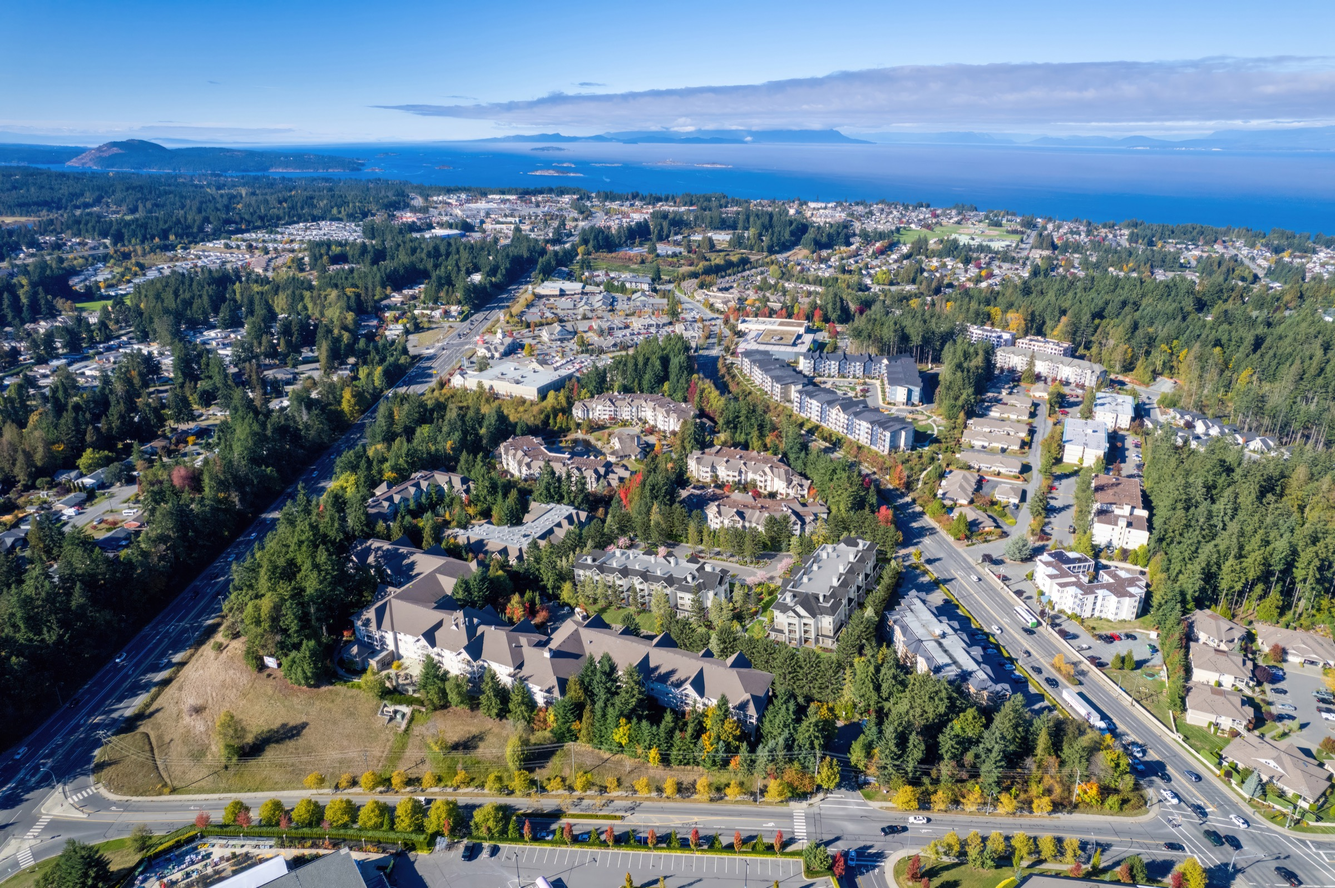
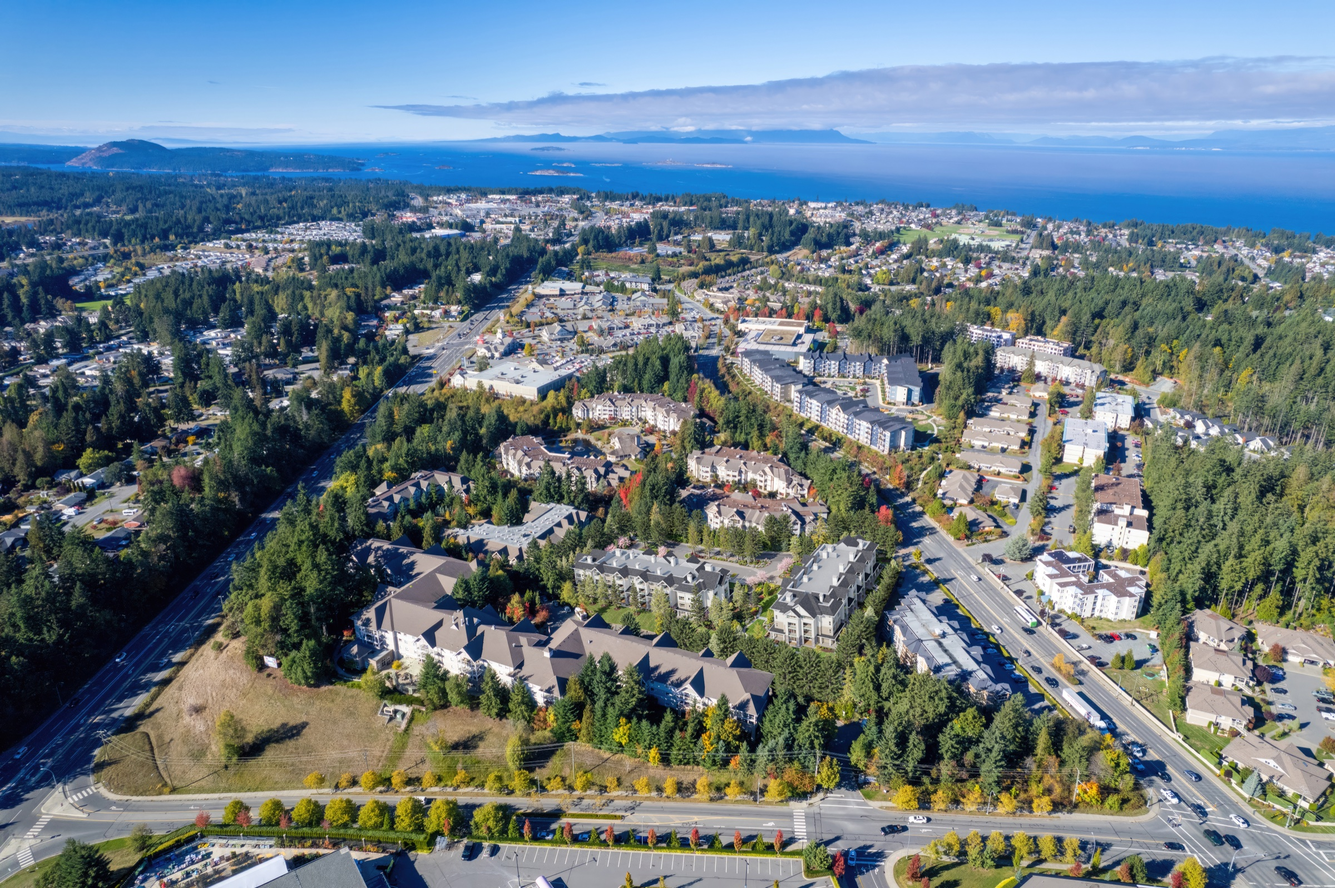
Update v1 content: luxury headline, covered patios, Summer 2026
- Hero: "Modern" -> "Luxury"; remove 55+ trust cue
- Why Rent: trim benefits (remove community/peace-of-mind/professionally-managed items)
- Homes: accessible bathrooms -> covered patios (features + both floor plans)
- Layouts: 2BR hero uses pano view; replace "View Layout Details" button with
  static "Layout Details Coming Soon" label (amenity partnership unconfirmed)
- Amenities: section removed from page + nav (Origin partnership pending)
- Gallery: move pano-view to Interior; drop Amenity filter + video placeholders;
  remove amenity image
- Form: drop Gulf Development contact sentence from consent copy
- Footer + API fallback: info@askgreta.com -> info@chelsealiving.net
- Images: regenerate pano-view.jpg (2400w, 556KB) and aerial-view.jpg from
  source renderings
- Global sweep: Spring 2026 -> Summer 2026 across v1/v2/v3

diff --git a/src/app/page.tsx b/src/app/page.tsx
@@ -1,101 +1,31 @@
-import Image from 'next/image';
-import Link from 'next/link';
+import Header from '@/components/v1/Header';
+import Hero from '@/components/v1/Hero';
+import Overview from '@/components/v1/Overview';
+import Homes from '@/components/v1/Homes';
+import Location from '@/components/v1/Location';
+import Gallery from '@/components/v1/Gallery';
+import RegistrationForm from '@/components/v1/RegistrationForm';
+import BookShowing from '@/components/v1/BookShowing';
+import Footer from '@/components/v1/Footer';
 
-const VARIANTS = [
-  {
-    id: 'v1',
-    title: 'Classic Trust',
-    description:
-      'Traditional leasing aesthetic. Navy, cream, and gold palette with strong hierarchy, big readable type, and minimal animation. Designed for clarity and confidence.',
-    color: 'from-[#1B3A5C] to-[#112840]',
-    accent: '#C5A55A',
-    image: '/images/building-a.jpg',
-  },
-  {
-    id: 'v2',
-    title: 'Modern Premium',
-    description:
-      'Upscale condo-quality feel. Deep charcoal and copper palette with elegant transitions, masonry gallery, and refined iconography. Feels like high-end real estate marketing.',
-    color: 'from-[#1A1A1A] to-[#0A0A0A]',
-    accent: '#B8860B',
-    image: '/images/hero-view.jpg',
-  },
-  {
-    id: 'v3',
-    title: 'Warm Community',
-    description:
-      'Lifestyle and community focused. Sage green and terracotta palette with rounded shapes, friendly microcopy, and a welcoming tone. Emphasizes neighbourhood and belonging.',
-    color: 'from-[#2D4A2E] to-[#1a2e1b]',
-    accent: '#C17A50',
-    image: '/images/amenity.jpg',
-  },
-];
+export const metadata = {
+  title: 'Chelsea at Longwood — Luxury Rental Living for Your Next Chapter',
+};
 
-export default function PreviewPage() {
+export default function Page() {
   return (
-    <div className="min-h-screen bg-[#0A0A0A]">
-      <header className="pt-16 pb-12 px-4 text-center">
-        <p className="text-white/30 text-sm font-medium tracking-[0.2em] uppercase mb-3">
-          Studio 1299
-        </p>
-        <h1 className="text-white text-4xl sm:text-5xl font-semibold tracking-tight mb-4">
-          Previews
-        </h1>
-        <p className="text-white/40 text-base max-w-md mx-auto leading-relaxed">
-          Three landing page concepts for Chelsea at Longwood. Click any card to view the full design.
-        </p>
-      </header>
-
-      <main className="max-w-6xl mx-auto px-4 sm:px-6 pb-20">
-        <div className="grid md:grid-cols-3 gap-6">
-          {VARIANTS.map((v) => (
-            <Link
-              key={v.id}
-              href={`/${v.id}`}
-              className="group relative rounded-2xl overflow-hidden bg-white/5 border border-white/5 hover:border-white/15 transition-all duration-300 hover:-translate-y-1"
-            >
-              <div className="relative h-52 overflow-hidden">
-                <Image
-                  src={v.image}
-                  alt={`${v.title} preview`}
-                  fill
-                  className="object-cover transition-transform duration-500 group-hover:scale-105"
-                  sizes="(max-width: 768px) 100vw, 33vw"
-                />
-                <div className={`absolute inset-0 bg-gradient-to-t ${v.color} opacity-60`} />
-                <div className="absolute bottom-4 left-4">
-                  <span
-                    className="inline-block px-3 py-1 rounded-full text-xs font-semibold text-white/90 backdrop-blur-sm"
-                    style={{ backgroundColor: `${v.accent}CC` }}
-                  >
-                    Version {v.id.replace('v', '')}
-                  </span>
-                </div>
-              </div>
-              <div className="p-6">
-                <h2 className="text-white text-xl font-semibold mb-2 group-hover:text-white/90 transition-colors">
-                  {v.title}
-                </h2>
-                <p className="text-white/40 text-sm leading-relaxed">
-                  {v.description}
-                </p>
-                <div className="mt-5 flex items-center gap-2 text-white/50 text-sm font-medium group-hover:text-white/70 transition-colors">
-                  View full page
-                  <svg className="w-4 h-4 transition-transform group-hover:translate-x-1" fill="none" stroke="currentColor" strokeWidth={2} viewBox="0 0 24 24">
-                    <path strokeLinecap="round" strokeLinejoin="round" d="M13.5 4.5L21 12m0 0l-7.5 7.5M21 12H3" />
-                  </svg>
-                </div>
-              </div>
-            </Link>
-          ))}
-        </div>
+    <div className="theme-v1 min-h-screen">
+      <Header />
+      <main>
+        <Hero />
+        <Overview />
+        <Homes />
+        <Location />
+        <Gallery />
+        <RegistrationForm />
+        <BookShowing />
       </main>
-
-      <footer className="text-center pb-10">
-        <p className="text-white/20 text-xs">
-          Confidential preview &mdash; Studio 1299
-        </p>
-      </footer>
+      <Footer />
     </div>
   );
 }

diff --git a/src/lib/content.ts b/src/lib/content.ts
@@ -1,10 +1,10 @@
 export const SITE_NAME = 'Chelsea at Longwood';
 
 export const HERO = {
-  headline: 'Modern Rental Living for Your Next Chapter',
+  headline: 'Luxury Rental Living for Your Next Chapter',
   subheadline: 'Bright, comfortable homes in the heart of Longwood.',
   cta: 'Register for Updates',
-  trustCues: ['Professionally managed', '55+ friendly living', 'Opening Spring 2026'],
+  trustCues: ['Professionally managed', 'Opening Summer 2026'],
 };
 
 export const OVERVIEW = {
@@ -14,10 +14,7 @@ export const OVERVIEW = {
     'Leave strata meetings, repairs, and maintenance behind',
     'No strata fees or unexpected special levies',
     'Brand-new, move-in-ready homes — just bring what matters to you',
-    'A built-in community of neighbours who share your stage of life',
     'Lower financial risk and greater flexibility for your future',
-    'Peace of mind for downsizers and retirees who want simplicity and comfort',
-    'Professionally managed by a dedicated team — so you don\'t have to think about it',
   ],
 };
 
@@ -33,7 +30,7 @@ export const HOMES = {
     { label: 'In-suite laundry', icon: 'laundry' },
     { label: 'Open, practical layouts', icon: 'layout' },
     { label: 'Large windows with natural light', icon: 'sun' },
-    { label: 'Accessible bathrooms', icon: 'accessible' },
+    { label: 'Covered patios', icon: 'balcony' },
     { label: 'Large private balconies', icon: 'balcony' },
   ],
   floorPlans: [
@@ -47,7 +44,7 @@ export const HOMES = {
         'Modern kitchen with full appliances',
         'In-suite laundry',
         'Private balcony',
-        'Accessible bathroom',
+        'Covered patio',
       ],
     },
     {
@@ -61,7 +58,7 @@ export const HOMES = {
         'In-suite laundry',
         'Private balcony',
         'Primary bedroom ensuite',
-        'Accessible bathroom',
+        'Covered patio',
       ],
     },
   ],
@@ -128,13 +125,6 @@ export const GALLERY = {
       height: 1350,
     },
     {
-      src: '/images/amenity.jpg',
-      alt: 'Chelsea at Longwood amenity space rendering',
-      category: 'amenity' as const,
-      width: 2400,
-      height: 1600,
-    },
-    {
       src: '/images/living-room.jpg',
       alt: 'Bright, modern living room with large windows and natural light',
       category: 'interior' as const,
@@ -165,9 +155,9 @@ export const GALLERY = {
     {
       src: '/images/pano-view.jpg',
       alt: 'Panoramic view from Chelsea at Longwood balcony',
-      category: 'neighbourhood' as const,
+      category: 'interior' as const,
       width: 2400,
-      height: 1200,
+      height: 960,
     },
     {
       src: '/images/pano-view-2.jpg',
@@ -187,7 +177,7 @@ export const FORM = {
   successTitle: 'Thank you for your interest.',
   successMessage:
     'We\'ve received your information and will be in touch soon with updates about Chelsea at Longwood. We look forward to welcoming you.',
-  consentText: `By clicking on the box, I consent to Chelsea at Longwood marketing and leasing team to contact me via electronic and non-electronic means with messages such as newsletters, announcements, press releases and event invitations regarding their respective products and services. I consent to the collection, use and disclosure of my information submitted for the purposes disclosed on this page, including for electronic and non-electronic communications. I may withdraw my consent to electronic messages at any time by following the unsubscribe links contained in them. Gulf Development Inc's contact details are [Address].`,
+  consentText: `By clicking on the box, I consent to Chelsea at Longwood marketing and leasing team to contact me via electronic and non-electronic means with messages such as newsletters, announcements, press releases and event invitations regarding their respective products and services. I consent to the collection, use and disclosure of my information submitted for the purposes disclosed on this page, including for electronic and non-electronic communications. I may withdraw my consent to electronic messages at any time by following the unsubscribe links contained in them.`,
   suiteOptions: [
     { value: '1BR', label: '1 Bedroom' },
     { value: '2BR', label: '2 Bedroom' },
@@ -201,7 +191,7 @@ export const FORM = {
 };
 
 export const FOOTER = {
-  email: 'info@askgreta.com',
+  email: 'info@chelsealiving.net',
   phone: '250.619.9500',
   propertyManager: 'Gulf Properties & Property Management Team',
   address: '4775 Upland Drive, Nanaimo, BC V9T6L8',

diff --git a/src/components/v1/Homes.tsx b/src/components/v1/Homes.tsx
@@ -1,13 +1,7 @@
-'use client';
-
-import { useState } from 'react';
 import Image from 'next/image';
 import { HOMES } from '@/lib/content';
-import { track } from '@/lib/analytics';
 
 export default function Homes() {
-  const [activePlan, setActivePlan] = useState<string | null>(null);
-
   return (
     <section id="homes" className="py-28 lg:py-40 bg-cream">
       <div className="max-w-7xl mx-auto px-6 sm:px-8 lg:px-12">
@@ -57,7 +51,7 @@ export default function Homes() {
               >
                 <div className="relative h-64 lg:h-72">
                   <Image
-                    src="/images/living-room.jpg"
+                    src={plan.id === '2br' ? '/images/pano-view.jpg' : '/images/living-room.jpg'}
                     alt={`${plan.name} layout preview`}
                     fill
                     className="object-cover transition-transform duration-700 group-hover:scale-105"
@@ -86,23 +80,10 @@ export default function Homes() {
                       </li>
                     ))}
                   </ul>
-                  <button
-                    onClick={() => {
-                      setActivePlan(activePlan === plan.id ? null : plan.id);
-                      track('floorplan_view', { plan: plan.id });
-                    }}
-                    className="w-full bg-navy text-white py-4 font-semibold hover:bg-navy-light transition-colors tracking-wide"
-                  >
-                    {activePlan === plan.id ? 'Close' : 'View Layout Details'}
-                  </button>
-                </div>
-                {activePlan === plan.id && (
-                  <div className="border-t border-cream-dark p-8 bg-cream/50 text-center">
-                    <p className="text-warm-gray text-base italic leading-relaxed">
-                      Detailed floor plans coming soon. Contact us for more information.
-                    </p>
+                  <div className="w-full bg-navy/10 text-navy py-4 font-semibold text-center tracking-wide">
+                    Layout Details Coming Soon
                   </div>
-                )}
+                </div>
               </div>
             ))}
           </div>

diff --git a/src/components/v1/Gallery.tsx b/src/components/v1/Gallery.tsx
@@ -11,7 +11,6 @@ const CATEGORIES = [
   { value: 'building', label: 'Building' },
   { value: 'interior', label: 'Interiors' },
   { value: 'neighbourhood', label: 'Neighbourhood' },
-  { value: 'amenity', label: 'Amenity' },
 ] as const;
 
 export default function Gallery() {
@@ -76,20 +75,6 @@ export default function Gallery() {
           ))}
         </div>
 
-        <div className="mt-14 grid sm:grid-cols-2 gap-6">
-          <div className="bg-cream p-10 text-center">
-            <svg className="w-10 h-10 text-warm-gray mx-auto mb-4" fill="none" stroke="currentColor" strokeWidth={1.5} viewBox="0 0 24 24">
-              <path strokeLinecap="round" strokeLinejoin="round" d="m15.75 10.5 4.72-4.72a.75.75 0 0 1 1.28.53v11.38a.75.75 0 0 1-1.28.53l-4.72-4.72M4.5 18.75h9a2.25 2.25 0 0 0 2.25-2.25v-9a2.25 2.25 0 0 0-2.25-2.25h-9A2.25 2.25 0 0 0 2.25 7.5v9a2.25 2.25 0 0 0 2.25 2.25Z" />
-            </svg>
-            <p className="text-warm-gray text-base">{GALLERY.videoPlaceholder}</p>
-          </div>
-          <div className="bg-cream p-10 text-center">
-            <svg className="w-10 h-10 text-warm-gray mx-auto mb-4" fill="none" stroke="currentColor" strokeWidth={1.5} viewBox="0 0 24 24">
-              <path strokeLinecap="round" strokeLinejoin="round" d="M9.813 15.904 9 18.75l-.813-2.846a4.5 4.5 0 0 0-3.09-3.09L2.25 12l2.846-.813a4.5 4.5 0 0 0 3.09-3.09L9 5.25l.813 2.846a4.5 4.5 0 0 0 3.09 3.09L15.75 12l-2.846.813a4.5 4.5 0 0 0-3.09 3.09ZM18.259 8.715 18 9.75l-.259-1.035a3.375 3.375 0 0 0-2.455-2.456L14.25 6l1.036-.259a3.375 3.375 0 0 0 2.455-2.456L18 2.25l.259 1.035a3.375 3.375 0 0 0 2.455 2.456L21.75 6l-1.036.259a3.375 3.375 0 0 0-2.455 2.456Z" />
-            </svg>
-            <p className="text-warm-gray text-base">{GALLERY.soraPlaceholder}</p>
-          </div>
-        </div>
       </div>
 
       {lightboxImage && (

diff --git a/src/components/v1/Footer.tsx b/src/components/v1/Footer.tsx
@@ -8,7 +8,7 @@ export default function Footer() {
           <div className="md:col-span-5">
             <h3 className="text-2xl font-bold mb-2">{SITE_NAME}</h3>
             <p className="text-gold tracking-[0.2em] uppercase text-xs font-semibold mb-6">
-              Opening Spring 2026
+              Opening Summer 2026
             </p>
             <p className="text-white/50 leading-relaxed text-base max-w-sm">
               {FOOTER.address}
@@ -33,7 +33,7 @@ export default function Footer() {
           <div className="md:col-span-4">
             <h4 className="text-xs tracking-[0.2em] uppercase text-white/40 font-semibold mb-6">Navigate</h4>
             <div className="grid grid-cols-2 gap-3">
-              {['Why Rent', 'The Homes', 'Amenities', 'Location', 'Gallery', 'Register'].map((label) => (
+              {['Why Rent', 'The Homes', 'Location', 'Gallery', 'Register'].map((label) => (
                 <a
                   key={label}
                   href={`#${label.toLowerCase().replace(/\s/g, '')}`}

diff --git a/src/components/v3/Footer.tsx b/src/components/v3/Footer.tsx
@@ -10,7 +10,7 @@ export default function Footer() {
           <div className="md:col-span-5">
             <h3 className="text-2xl mb-2">{SITE_NAME}</h3>
             <p className="text-terracotta-light tracking-[0.2em] uppercase text-xs font-medium mb-6">
-              Opening Spring 2026
+              Opening Summer 2026
             </p>
             <p className="text-cream-v3/60 leading-relaxed max-w-sm">
               Modern 55+ rental living in the heart of Longwood, Nanaimo. Your next chapter starts here.

diff --git a/src/components/v2/Footer.tsx b/src/components/v2/Footer.tsx
@@ -11,7 +11,7 @@ export default function Footer() {
               <span className="ml-1.5 font-light text-ivory/70">at Longwood</span>
             </span>
             <p className="mt-5 text-sm leading-relaxed text-ivory/35">
-              Modern 55+ rental living in the heart of Longwood, Nanaimo. Opening Spring 2026.
+              Modern 55+ rental living in the heart of Longwood, Nanaimo. Opening Summer 2026.
             </p>
           </div>
 

diff --git a/src/app/api/register/route.ts b/src/app/api/register/route.ts
@@ -59,7 +59,7 @@ async function sendEmailNotification(payload: RegistrationPayload) {
 
   const body = {
     from: 'Chelsea at Longwood <noreply@chelseaatlongwood.com>',
-    to: [process.env.NOTIFICATION_EMAIL || 'info@askgreta.com'],
+    to: [process.env.NOTIFICATION_EMAIL || 'info@chelsealiving.net'],
     subject: `New Registration: ${payload.fullName} — Chelsea at Longwood`,
     html: `
       <h2>New Registration — Chelsea at Longwood</h2>

diff --git a/src/components/v3/RegistrationForm.tsx b/src/components/v3/RegistrationForm.tsx
@@ -122,7 +122,7 @@ export default function RegistrationForm() {
             </p>
             <div className="mt-8 pt-8 border-t border-warm-gray-v3/30">
               <p className="text-warm-brown/60 text-sm">
-                Opening Spring 2026
+                Opening Summer 2026
               </p>
             </div>
           </div>

diff --git a/src/components/v1/Header.tsx b/src/components/v1/Header.tsx
@@ -7,7 +7,6 @@ import { track } from '@/lib/analytics';
 const NAV_LINKS = [
   { label: 'Why Rent', href: '#overview' },
   { label: 'The Homes', href: '#homes' },
-  { label: 'Amenities', href: '#amenities' },
   { label: 'Location', href: '#location' },
   { label: 'Gallery', href: '#gallery' },
 ];

diff --git a/src/lib/content-v2.ts b/src/lib/content-v2.ts
@@ -11,7 +11,7 @@ export { SITE_NAME } from './content';
 
 export const HERO = {
   ...BASE_HERO,
-  trustCues: ['Professionally managed', '55+ friendly living', 'Opening Spring 2026'],
+  trustCues: ['Professionally managed', 'Opening Summer 2026'],
 };
 
 export const OVERVIEW = {
